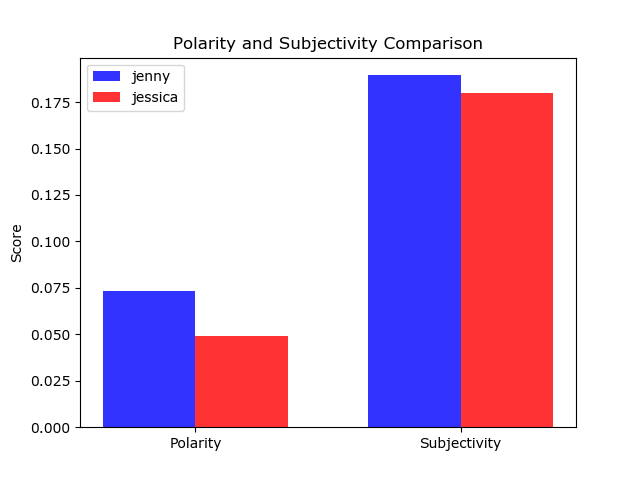
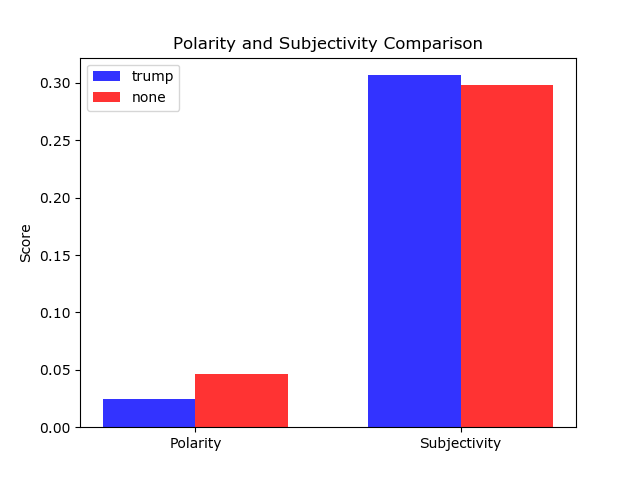
hi

diff --git a/templates/overall.htm b/templates/overall.htm
@@ -1,13 +1,18 @@
 <html lang="en"> 
 
   <head>
-	<meta http-equiv="content-type" content="text/html; charset=utf-8" /> 
-  <link rel="stylesheet" href="style.css" type="text/css"/>  
+      <meta http-equiv="content-type" content="text/html; charset=utf-8" />
+      <meta name="viewport" content="width=device-width, initial-scale=1.0, maximum-scale=2.0, user-scalable=yes" />
+      <meta name="apple-mobile-web-app-capable" content="yes" />
+      <meta name="apple-mobile-web-app-status-bar-style" content="black" />
+      <meta name="mobile-web-app-capable" content="yes" /> 
+      <link rel="stylesheet" href="{{ url_for('static',    filename='css/style.css') }}">  
+
   <title>Sentiment Analysis</title>
 
 	<style>
   /* Your styles go here */
-  div {display: none; }
+  
 	</style>
   
   <script src="http://code.jquery.com/jquery.min.js"></script> 
@@ -25,7 +30,9 @@
   </head>
 
   <body>
-    <header> 
+    {% extends "template.html" %}
+    {% block content %}
+    <!-- <header> 
     <ul id="top"> 	
     <li><a href="homepage.htm">Home</a></li>
     <li class="dropdown">
@@ -33,7 +40,7 @@
     <li class="dropdown">
         <a href="individual.htm" class="dropbtn">Individual Sentiment</a>
    
-    </header>
+    </header> -->
 	<!-- Your HTML goes here -->
 <!--use <i> for italicizing word, <br> for break, <hr> for a line break, <h1> </h1> for header-->
 <h1> Sentiment Analysis </h1>
@@ -42,11 +49,11 @@
     <input type="text" name="firstkeyword" maxlength="100" id="first"/>
 
     <p> Would you like to search a second keyword? </p>
-    <input type="radio" name="gender" value="yes" id="yes"> YES
-    <input type="radio" name="gender" value="no" id="no"> NO
+    <input type="radio" name="yes" value="yes" id="yes"> YES
+    <input type="radio" name="no" value="no" id="no"> NO
   <div id="section2">
     <p id="p2"> What topic would you like to search as your second keyword?</p>
-    <input type="text" name="secondkeyword" maxlength="100" id="second"/> 
+    <input type="text" name="secondkeyword" maxlength="100" id="second" value="none"/> 
 
   </div>
   <p> 
@@ -54,5 +61,7 @@
   <input type="reset" value="Reset" name="Reset" />
 </p>
 </form>
+
+{% endblock %}
   </body>
 </html>

diff --git a/templates/results1.htm b/templates/results1.htm
@@ -25,6 +25,9 @@
   </head>
 
   <body>
+      {% extends "template.html" %}
+      {% block content %}
+
     <header> 
     <ul id="top"> 	
     <li><a href="homepage.htm">Home</a></li>
@@ -38,16 +41,17 @@
 <!--use <i> for italicizing word, <br> for break, <hr> for a line break, <h1> </h1> for header-->
 <h1> Sentiment Analysis </h1>
 <p> 
-    The polarity and the subjectivity of the keyword {{firskeyword}} is below.<br>
-    Polarity: {{polarity}}  Subjectivity: {{subjectivity}}. <br>
-    Based on the polarity, the overall sentiment of the keyword {{firskeyword}} is {{label1}}. 
+    The polarity and the subjectivity of the first keyword, {{ firstkeyword }}, is below.<br>
+    Polarity: {{ polarity1 }}  Subjectivity: {{ subjectivity1 }}. <br>
+    Based on the polarity, the overall sentiment of the keyword {{ firskeyword }} is {{ label1 }}. <br>
 
-    The polarity and the subjectivity of the second keyword {{secondkeyword}} is below.<br>
-    Polarity: {{polarity2}}  Subjectivity: {{subjectivity2}}. <br>
-    Based on the polarity, the overall sentiment of the second keyword {{subjectivity2}} is {{label2}}. 
+    The polarity and the subjectivity of the second keyword, {{ secondkeyword }}, is below.<br>
+    Polarity: {{ polarity2 }}  Subjectivity: {{ subjectivity2 }}. <br>
+    Based on the polarity, the overall sentiment of the second keyword {{ subjectivity2 }} is {{ label2 }}. 
 
-    <img src="{{barplot}}" alt="Bar Plot">   
+    <img src= {{barplot}} alt="Bar Plot">   
 
 </p>
+{% endblock %}  
   </body>
 </html>

diff --git a/templates/homepage.htm b/templates/homepage.htm
@@ -1,8 +1,12 @@
 <html lang="en"> 
 
   <head>
-	<meta http-equiv="content-type" content="text/html; charset=utf-8" /> 
-  <link rel="stylesheet" href="style.css" type="text/css"/>  
+      <meta http-equiv="content-type" content="text/html; charset=utf-8" />
+      <meta name="viewport" content="width=device-width, initial-scale=1.0, maximum-scale=2.0, user-scalable=yes" />
+      <meta name="apple-mobile-web-app-capable" content="yes" />
+      <meta name="apple-mobile-web-app-status-bar-style" content="black" />
+      <meta name="mobile-web-app-capable" content="yes" /> 
+      <link rel="stylesheet" href="{{ url_for('static',    filename='css/style.css') }}">  
   <title>Sentiment Analysis</title>
 
 	<style>
@@ -32,8 +36,8 @@
     <input type="text" name="firstkeyword" maxlength="100" id="first"/>
 
     <p> Would you like to search a second keyword? </p>
-    <input type="radio" name="gender" value="yes" id="y"> YES
-    <input type="radio" name="gender" value="yes" id="y"> NO
+    <input type="radio" name="yes" value="yes" id="y"> YES
+    <input type="radio" name="no" value="yes" id="y"> NO
 
 
 </form>

diff --git a/templates/template.html b/templates/template.html
@@ -1,0 +1,31 @@
+<html lang="en"> 
+
+  <head>
+  <meta http-equiv="content-type" content="text/html; charset=utf-8" /> 
+  <link rel="stylesheet" href="{{ url_for('static',    filename='css/style.css') }}">  
+	<title>Sentiment Analysis</title>
+
+	<style>
+	/* Your styles go here */
+	</style>
+	
+	<script>
+	/* Your JavaScript goes here */
+	</script>
+  </head>
+
+<body>
+    <header> 
+        <ul id="top"> 	
+        <li><a href="{{ url_for('overall_sentiment_analysis') }}" style="font-family:  monaco, Consolas, 'Lucida Console', monospace;">Home</a></li>
+        <li class="dropdown">
+            <a href="{{ url_for('overall_sentiment_analysis') }}" style="font-family:  monaco, Consolas, 'Lucida Console', monospace;" class="dropbtn">Sentiment Analysis</a>  
+           
+                      
+        </header>
+        
+        {% block content %}
+        {% endblock %}
+        
+     </body>
+    </html>

diff --git a/app.py b/app.py
@@ -1,20 +1,24 @@
+#import all the necessary packages 
 from flask import Flask, render_template, request
-from overall import remove_url, create_dictionary, clean_tweets, get_sentiment, get_label, auth
 import os
 import tweepy 
 from textblob import TextBlob
 import datetime
 import matplotlib.pyplot as plt 
 
+#import all the necessary functions from overall.py file 
+from overall import remove_url, create_dictionary, clean_tweets, get_sentiment, get_label, auth, bar_plot
+
+#setting the image folder for the barplot to be stored in 
 image_folder = os.path.join('static', 'image')
 
-app1 = Flask(__name__)
-app1.config['upload_folder'] = image_folder
+app = Flask(__name__)
+app.config['UPLOAD_FOLDER'] = image_folder
 
-@app1.route("/", methods=["GET", "POST"])
-@app1.route('/index')
+@app.route("/", methods=["GET", "POST"])
 
-def calculate():
+
+def overall_sentiment_analysis():
     if request.method == "POST":
         api = auth()
         user_input = request.form["firstkeyword"]
@@ -22,11 +26,12 @@ def calculate():
         dictionary_tweets = create_dictionary(public_tweets)
         cleaned_tweets = clean_tweets(dictionary_tweets)
         polarity1 = get_sentiment(cleaned_tweets)[0]
-        subjectivity1= get_sentiment(cleaned_tweets)[1]
+        subjectivity1 = get_sentiment(cleaned_tweets)[1]
         analysis = get_sentiment(cleaned_tweets)
         label1 = get_label(analysis, threshold=0)
-    
-        if  request.form['name'].value == "yes":
+
+        #creating a if statement in case the user wants to analyze another keyword
+        if  request.form['yes'] == "yes":
             user_input2 = request.form["secondkeyword"]
             public_tweets2 = api.search(user_input2, count = 1000)
             dictionary_tweets2 = create_dictionary(public_tweets2)
@@ -35,18 +40,22 @@ def calculate():
             polarity2 = get_sentiment(cleaned_tweets2)[0]
             subjectivity2 = get_sentiment(cleaned_tweets2)[1]
             label2 = get_label(analysis2, threshold=0)
-            full_filename = os.path.join(app.config['upload_folder'], 'barplot.png')
+            bar_plot(polarity1, subjectivity1, polarity2, subjectivity2, user_input, user_input2)
+            full_filename = os.path.join(app.config['UPLOAD_FOLDER'], 'barplot.png')
             return render_template(
-                "results1.htm", firstkeyword = user_input, polarity = polarity1, subjectivty = subjectivity1,
-                analysis = analysis, label1= label1, secondkeyword = user_input2 , polarity2 = polarity2, subjectivty2 = subjectivity2,
-                label2 = label2, barplot = full_filename ) 
+                "results1.htm", firstkeyword = user_input, polarity1 = polarity1, subjectivity1 = subjectivity1,
+                label1= label1, secondkeyword = user_input2 , polarity2 = polarity2, subjectivity2 = subjectivity2,
+                label2 = label2, barplot = full_filename) 
 
-        else: 
+        elif request.form['no'] == "no": 
             return render_template(
-                "results1.htm", firstkeyword = user_input, polarity = polarity1, subjectivty = subjectivity1,
-                analysis = analysis) 
+            "results1.htm", firstkeyword = user_input, polarity1 = polarity1, subjectivity1 = subjectivity1,
+            analysis = analysis, label1=label1) 
 
     return render_template("overall.htm", error=None)
+
+def home():
+    return render_template("homepage.html")
 
 if __name__ =='__main__':
     app1.run()
